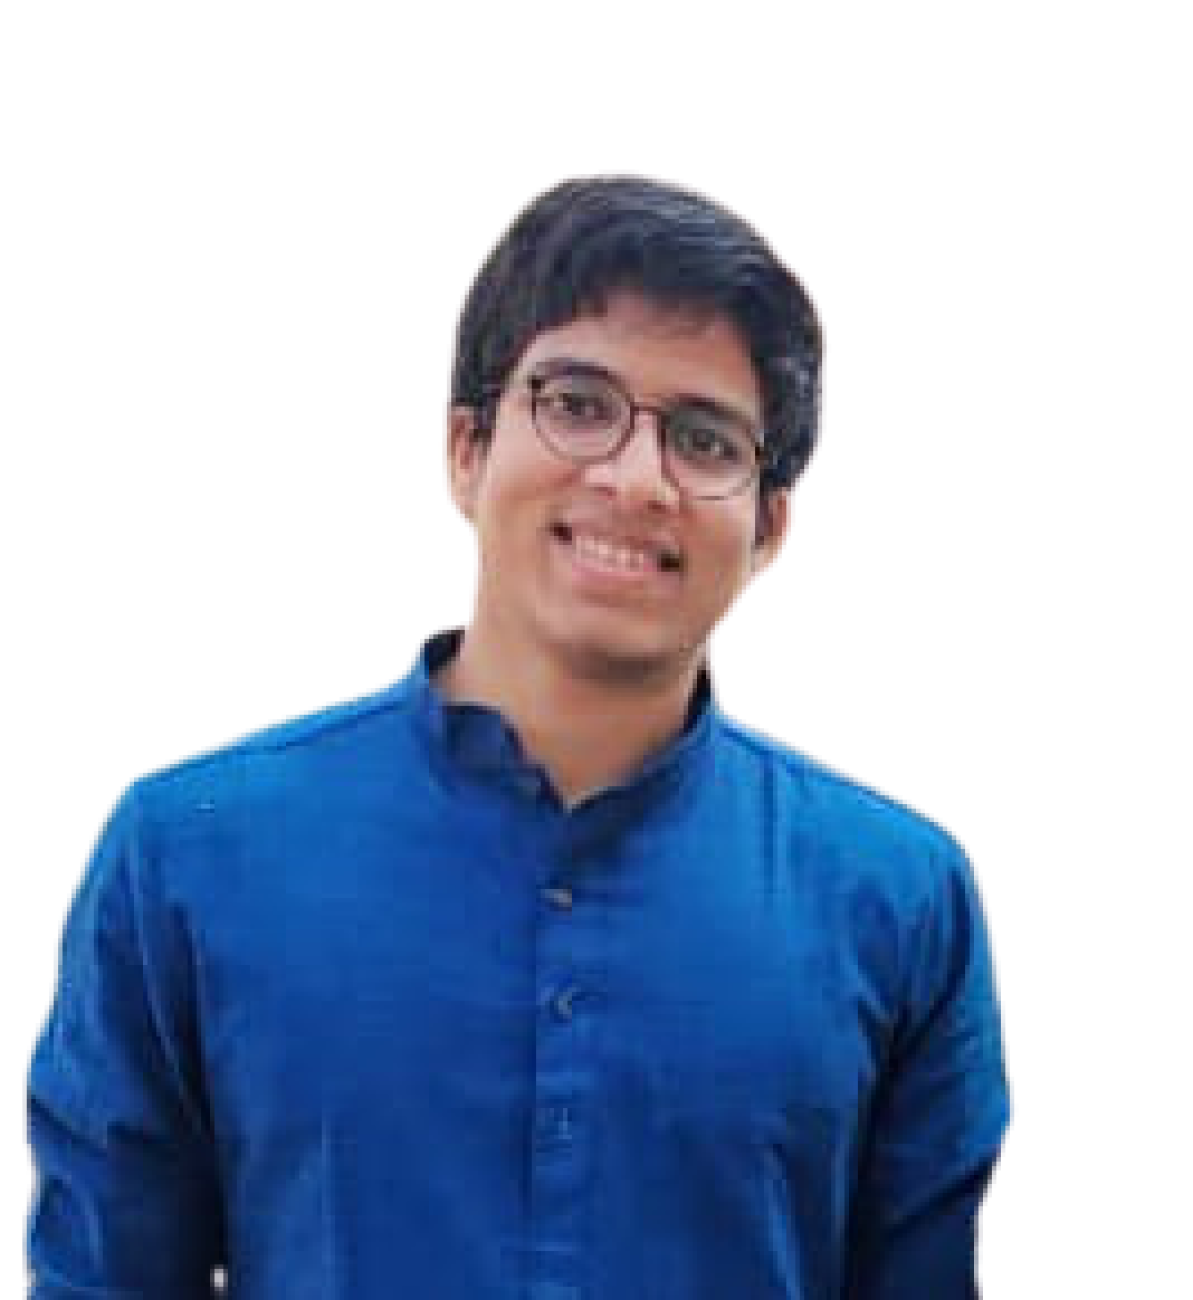
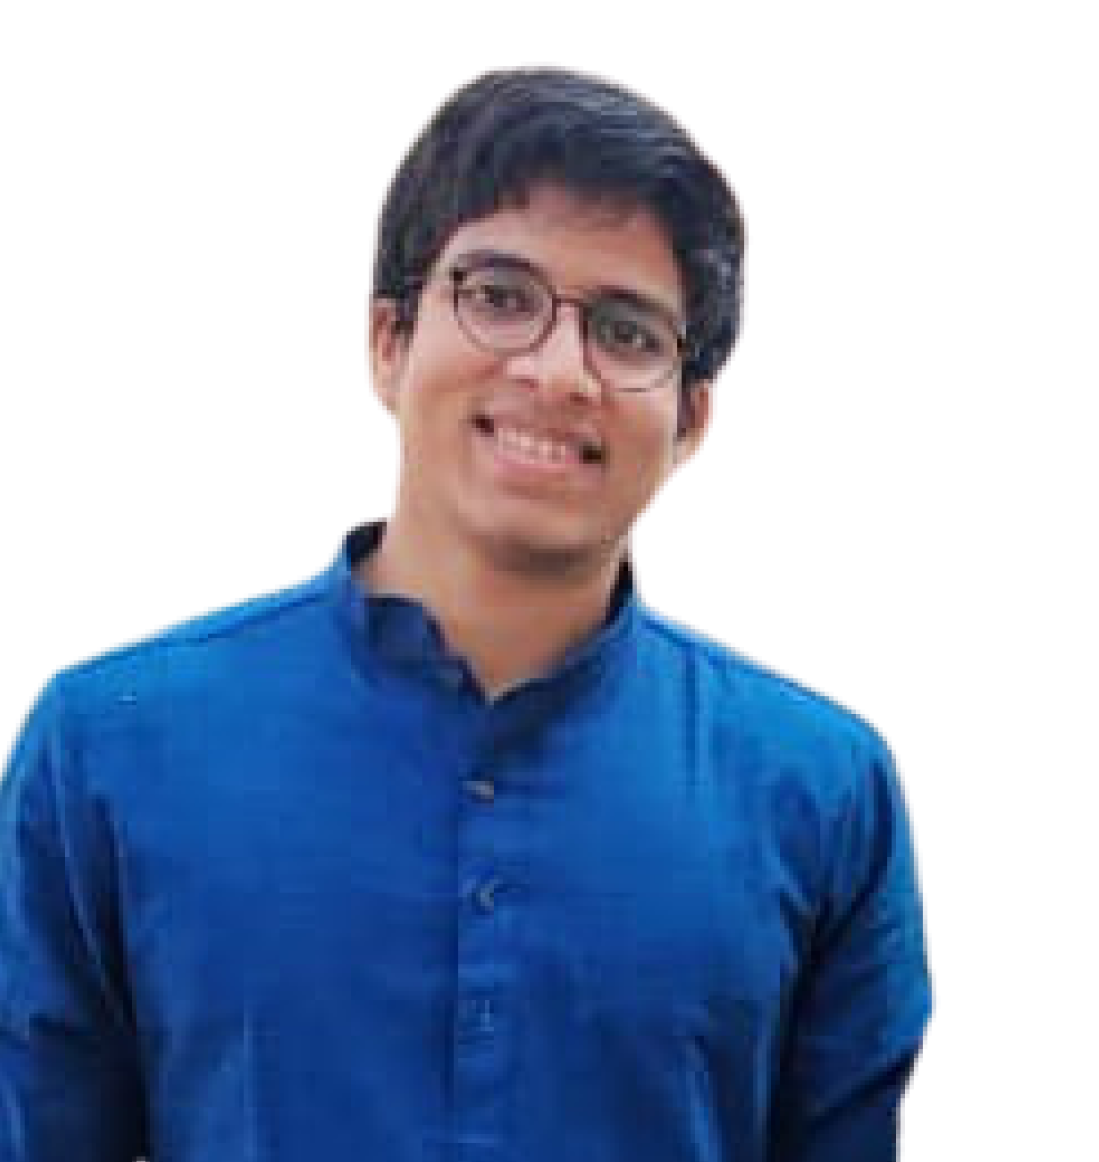
developers page

diff --git a/developers.html b/developers.html
@@ -1,0 +1,75 @@
+<!DOCTYPE html>
+<html lang="en">
+
+<head>
+    <meta charset="UTF-8">
+    <meta name="viewport" content="width=device-width, initial-scale=1.0">
+    <title>Contact Us</title>
+    <link href="http://fonts.cdnfonts.com/css/gilroy-bold" rel="stylesheet">
+    <link rel="preconnect" href="https://fonts.googleapis.com">
+    <link rel="preconnect" href="https://fonts.gstatic.com" crossorigin>
+    <link href="https://fonts.googleapis.com/css2?family=Montserrat:wght@500&display=swap" rel="stylesheet">
+    <link rel="stylesheet" href="./stylesheets/contact.css">
+
+</head>
+
+<body>
+    <div class="background"><img src="assets/longwall.png" alt=""></div>
+    <!-- <div class="oasis-logo"><img src="assets/pc/oasis_logo.svg" alt=""></div> -->
+    <div class="back-arrow"><a href="./index.html"><img src="assets/pc/backarrow_white.png" alt=""></a></div>
+    <div class="contact-container">
+        <h1 class="heading">Contact Us</h1>
+        <div class="contact-card-container">
+            <div class="contact-card">
+                <div class="contact-img yellow"><img src="assets/developers/sarthak_arora.png" alt=""></div>
+                <h3>Sarthak Arora</h3>
+                <div>Frontend</div>
+            </div>
+            <div class="contact-card">
+                <div class="contact-img blue"><img src="assets/developers/rutva_l.png" alt=""></div>
+                <h3>Rutva Lingapuri</h3>
+                <div>Frontend</div>
+            </div>
+            <div class="contact-card">
+                <div class="contact-img red"><img src="assets/developers/rohit_raj.png" alt=""></div>
+                <h3>Rohit Raj</h3>
+                <div>Design</div>
+            </div>
+            <div class="contact-card">
+                <div class="contact-img yellow"><img src="assets/developers/satvik_jain.png" alt=""></div>
+                <h3>Satvik Jain</h3>
+                <div>Design</div>
+            </div>
+            <!-- <div class="contact-card">
+                <div class="contact-img blue"><img src="assets/team/garvit_sadhwani.png" alt=""></div>
+                <h3>Garvit Sadhwani</h3>
+                <div>Registration, events and other</div>
+                <div style="margin-top: 0.25rem;">+91 9818809185</div>
+            </div>
+            <div class="contact-card">
+                <div class="contact-img red"><img src="assets/team/kaushley_mehra.png" alt=""></div>
+                <h3>Kaushley Mehra</h3>
+                <div>Logistics & Operations</div>
+                <div style="margin-top: 0.25rem;">+91 9899225890</div>
+            </div>
+            <div class="contact-card">
+                <div class="contact-img yellow"><img src="assets/team/harsh_lamba.png" alt=""></div>
+                <h3>Harsh Lamba</h3>
+                <div>Student Union General Secretary</div>
+                <div style="margin-top: 0.25rem;">+91 7082769694</div>
+            </div>
+            <div class="contact-card">
+                <div class="contact-img yellow"><img src="assets/team/avatar.png" alt="" style="width: 80%; height: unset; position: relative; bottom: -21px;"></div>
+                <h3>Harsh Shukla</h3>
+                <div>Student Union President</div>
+                <div style="margin-top: 0.25rem;">+91 7082769694</div>
+            </div> -->
+        </div> 
+    </div>
+    <div class="pot-left"><img src="assets/pc/Pot_left.png" alt=""></div>
+    <div class="lamp"><img src="assets/pc/lamp.png" alt=""></div>
+    <div class="pot-right"><img src="assets/pc/Pot_right.png" alt=""></div>
+    <script src="./scripts/index.js"></script>
+</body>
+
+</html>

diff --git a/stylesheets/contact.css b/stylesheets/contact.css
@@ -69,6 +69,7 @@ body {
   display: flex;
   justify-content: center;
   align-items: center;
+  overflow-x: hidden;
 }
 
 .contact-img::before {
@@ -95,7 +96,6 @@ body {
 
 .contact-img img{
   height: 100%;
-  width: 100%;
 }
 
 .pot-left img,
